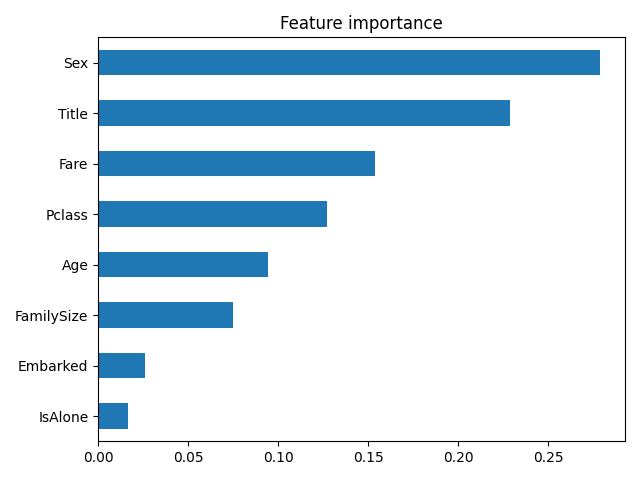
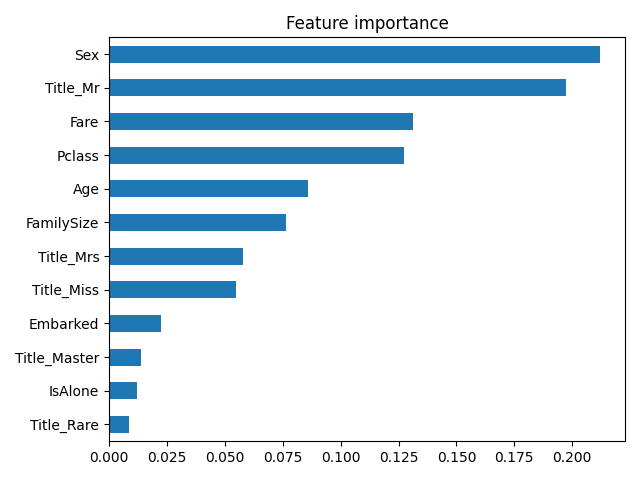
changing feature engenieering.adding onehot encoding inplace of mapping..added title and IsAlone

diff --git a/titan.py b/titan.py
@@ -80,12 +80,9 @@ def engineer_features(df):
     df['Title'] = df['Title'].replace('Mme', 'Mrs')
 
     ## encode title to number
-    df['Title'] = df['Title'].map({
-        'MR':0, 'Miss':1, 'Mrs':2, 'Master':3, "Rare":4
-    })
-
-    #fill any remaining nulls
-    df['Title'] = df['Title'].fillna(0)
+    df['Title'] = df['Title'].fillna('Mr')
+    df = pd.get_dummies(df, columns=['Title'], prefix='Title')
+    
 
     ##is the passenger is travelling alone
     df['IsAlone'] = (df['FamilySize'] ==1).astype(int)
@@ -97,7 +94,8 @@ train = engineer_features(train)
 test = engineer_features(test)
 
 ## Train the Model
-FEATURES =['Pclass', 'Sex', 'Age', 'Fare', 'Embarked', 'FamilySize', 'Title', 'IsAlone']
+FEATURES =['Pclass', 'Sex', 'Age', 'Fare', 'Embarked', 'FamilySize', 'Title_Mr',
+           'Title_Miss', 'Title_Mrs', 'Title_Master', 'Title_Rare', 'IsAlone']
 X=train[FEATURES]
 y=train['Survived']
 model = RandomForestClassifier(n_estimators=200, max_depth=6, random_state=42)
